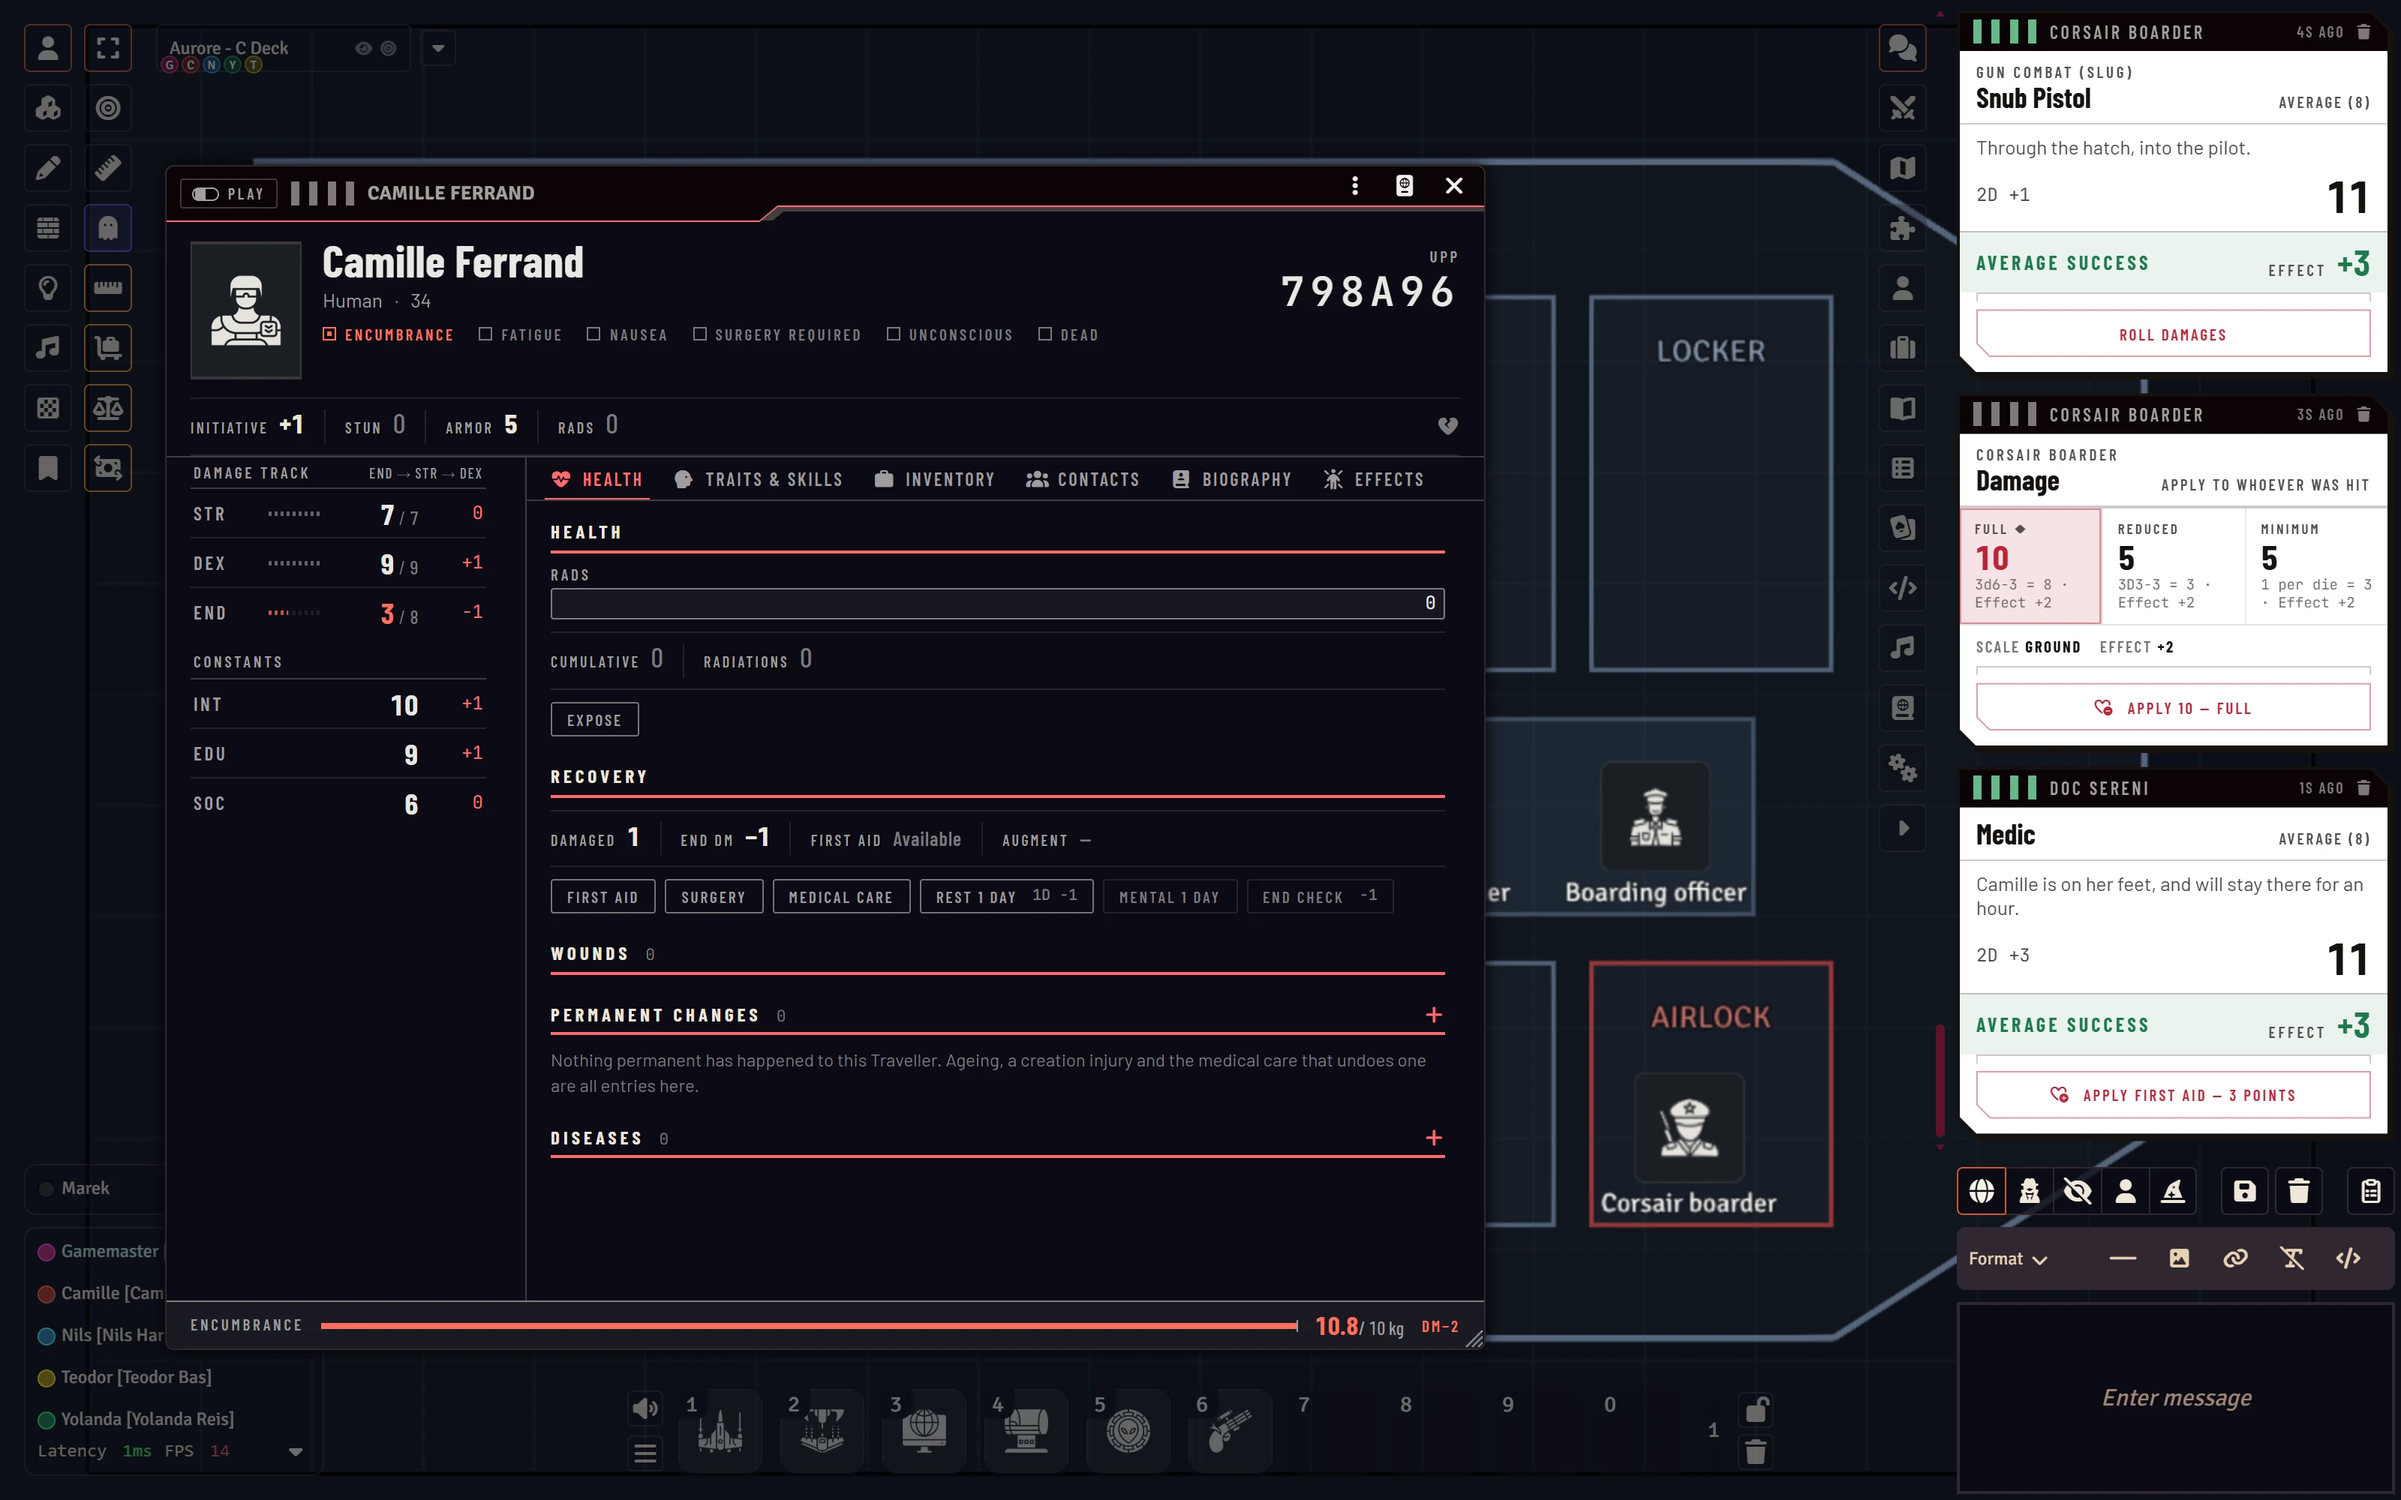
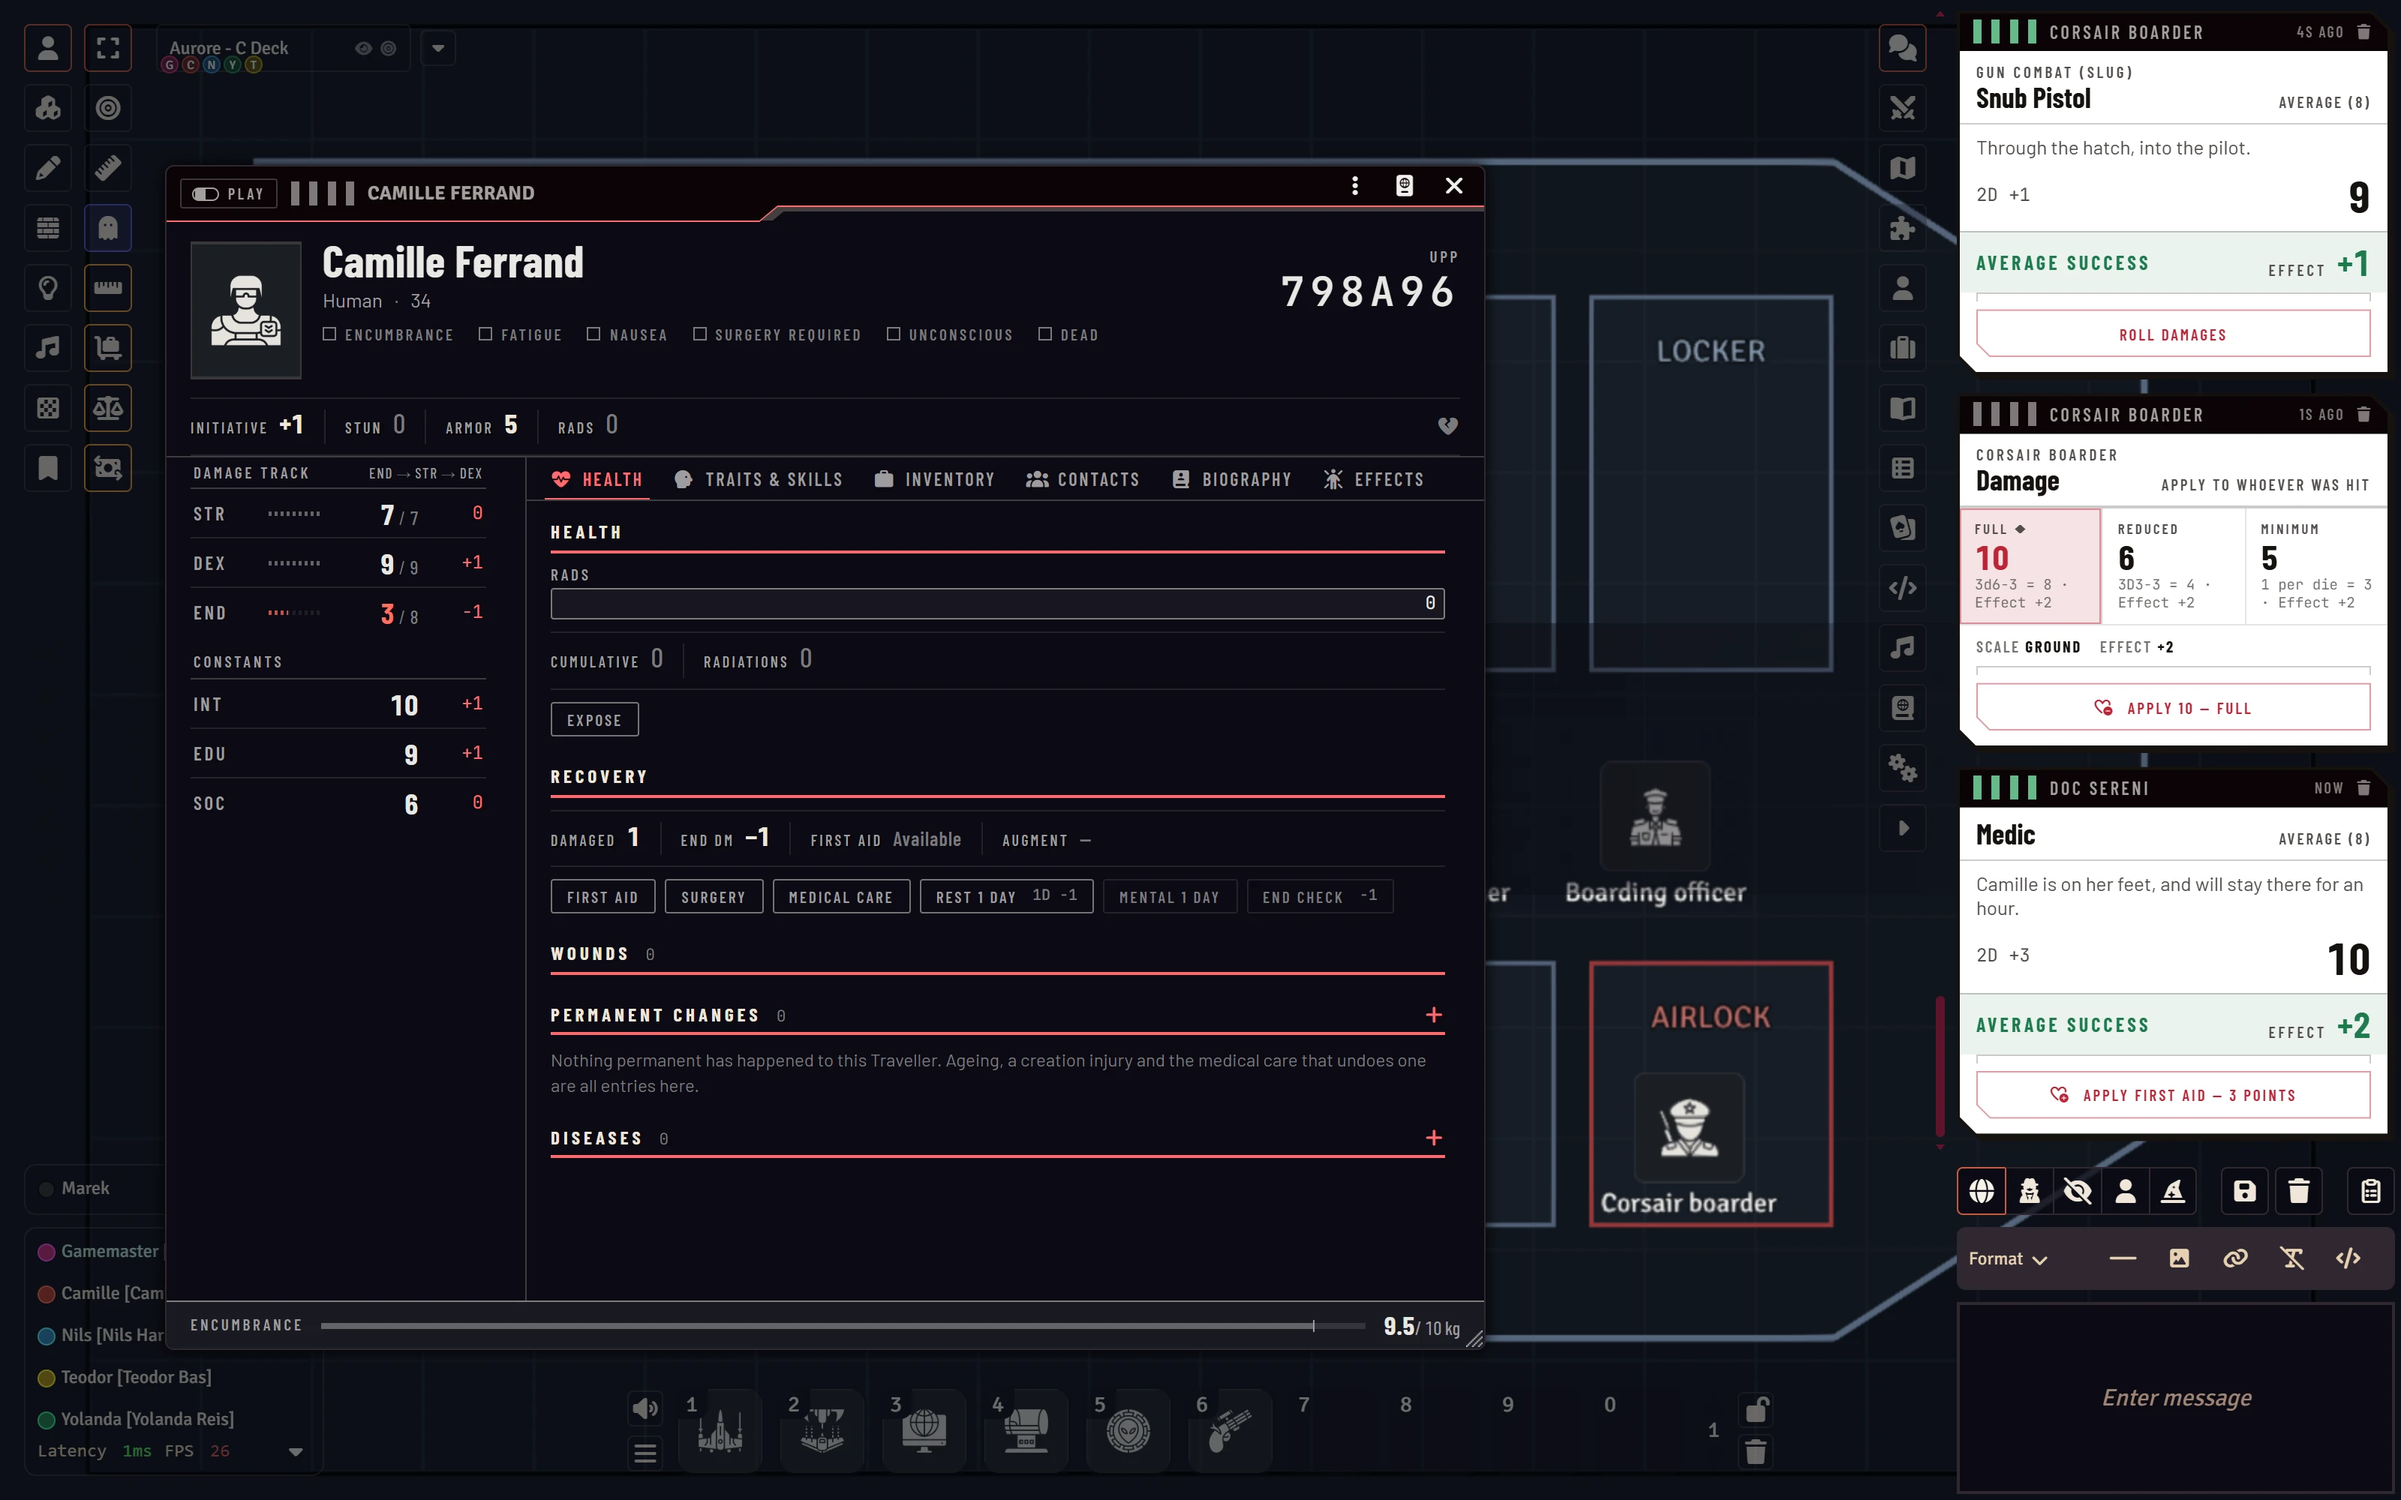
demo

diff --git a/README.md b/README.md
@@ -54,6 +54,35 @@ the demand that produced it.
 
 ---
 
+## Sheets, kit and creation
+
+**Twenty-two skills, two careers, and a programme five weeks into its eight.**
+
+![The Traveller sheet](https://raw.githubusercontent.com/JDR-Ninja/foundryvtt-mgt2/main/web/screenshots/session/session-sheet.webp)
+
+The training strip names the level it is buying, the weeks logged against it and the button that
+grants it. On the left, what the boarding action left behind: Endurance at 3 of 8, the Endurance DM
+that follows it, and the carrying limit that follows that.
+
+**Four containers, and a locker ashore that is an Actor of its own.**
+
+![The inventory and a Stash](https://raw.githubusercontent.com/JDR-Ninja/foundryvtt-mgt2/main/web/screenshots/session/session-inventory.webp)
+
+Every row names the container it is in. Beside it, a Stash: a bonded locker at the highport, with
+its own weight, its own value, a lock, and a row per player saying who may open it. The pilot owns
+it, the astrogator may read it, nobody else sees the sheet at all.
+
+**Six Travellers, five terms, one career that went wrong.**
+
+![Group character creation](https://raw.githubusercontent.com/JDR-Ninja/foundryvtt-mgt2/main/web/screenshots/session/session-chargen.webp)
+
+Creation runs as a grid of Travellers by terms, and it is interruptible: close it, play a session,
+come back. Each cell carries the career, the assignment and whether survival was passed — and where
+it was not, the ejection and the note that says why. The strip underneath is the term itself, ten
+steps in the order the book prints them.
+
+---
+
 ## What the system does
 
 ### At the table
@@ -89,8 +118,9 @@ the demand that produced it.
 ### The world
 
 * **Forty-nine optional and variant rules** in one settings screen — psionics, wealth, radiation,
-  encumbrance, magazines, starvation, vacuum, the jump procedure, fleet battles and design
-  validation among them.
+  encumbrance, starvation, vacuum, the jump procedure, fleet battles and design validation among
+  them. Each names the book and page it comes from, or says that no book settles it. The defaults
+  are the game as printed.
 * **Four languages** — French, English, Spanish and Brazilian Portuguese, interface and content
   strings alike.
 * **One accent recolours everything.** Four palette presets, eleven accents, light, dark or

diff --git a/web/screenshots/README.md b/web/screenshots/README.md
@@ -58,14 +58,24 @@ one system, and one shot at a different width shows.
 | `session-space.webp` | round one of a space combat over a nebula, the screen and the log |
 | `session-deck.webp` | a boarding action: the deck, the wounded pilot's sheet, the damage chain |
 | `session-request.webp` | the referee's roll-request compose window and the card answering it |
+| `session-sheet.webp` | the Traveller sheet on *Traits & Skills*, with an open training programme |
+| `session-inventory.webp` | the inventory's *Storage* tab and a Stash sheet beside it |
+| `session-chargen.webp` | the creation grid, six Travellers by five terms |
 
 **The whole interface, 1600 × 1000 at scale 2** — 3200 × 2000, 200-280 KB. Sidebar expanded on the
 chat log, hotbar loaded, scene navigation visible, and **four player clients actually connected**,
 because an offline roster reads "GM rolls" on every surface that names who answers.
 
-**One continuous session, in this order.** The three are stages of the same fight, taken in one
-pass without clearing the log between them, so the cards visible in a later shot are the ones the
-earlier shot produced. Re-take all three together or none.
+**One continuous session, in this order.** The six are stages of the same fight, taken in one pass
+without clearing the log between them, so the cards visible in a later shot are the ones the earlier
+shot produced, and the wound on the sheet is the one the damage card applied. Re-take all six
+together or none.
+
+**The fixture is fuller here than in the sheet shots.** The session set adds eight skills, an open
+training programme, the five recurring characters, four containers and a Stash to the same Camille
+Ferrand, because a landing image has to show a Traveller who has been played. The per-language
+sheet shots were taken against the leaner seed and have not been re-taken; the crew, the ship and
+the world are the same in both.
 
 **The board is drawn, never sourced.** The space scene is one of the deep-sky plates this system
 already ships. The deck is a set of Drawings — hull, spine corridor, compartments — generated for
